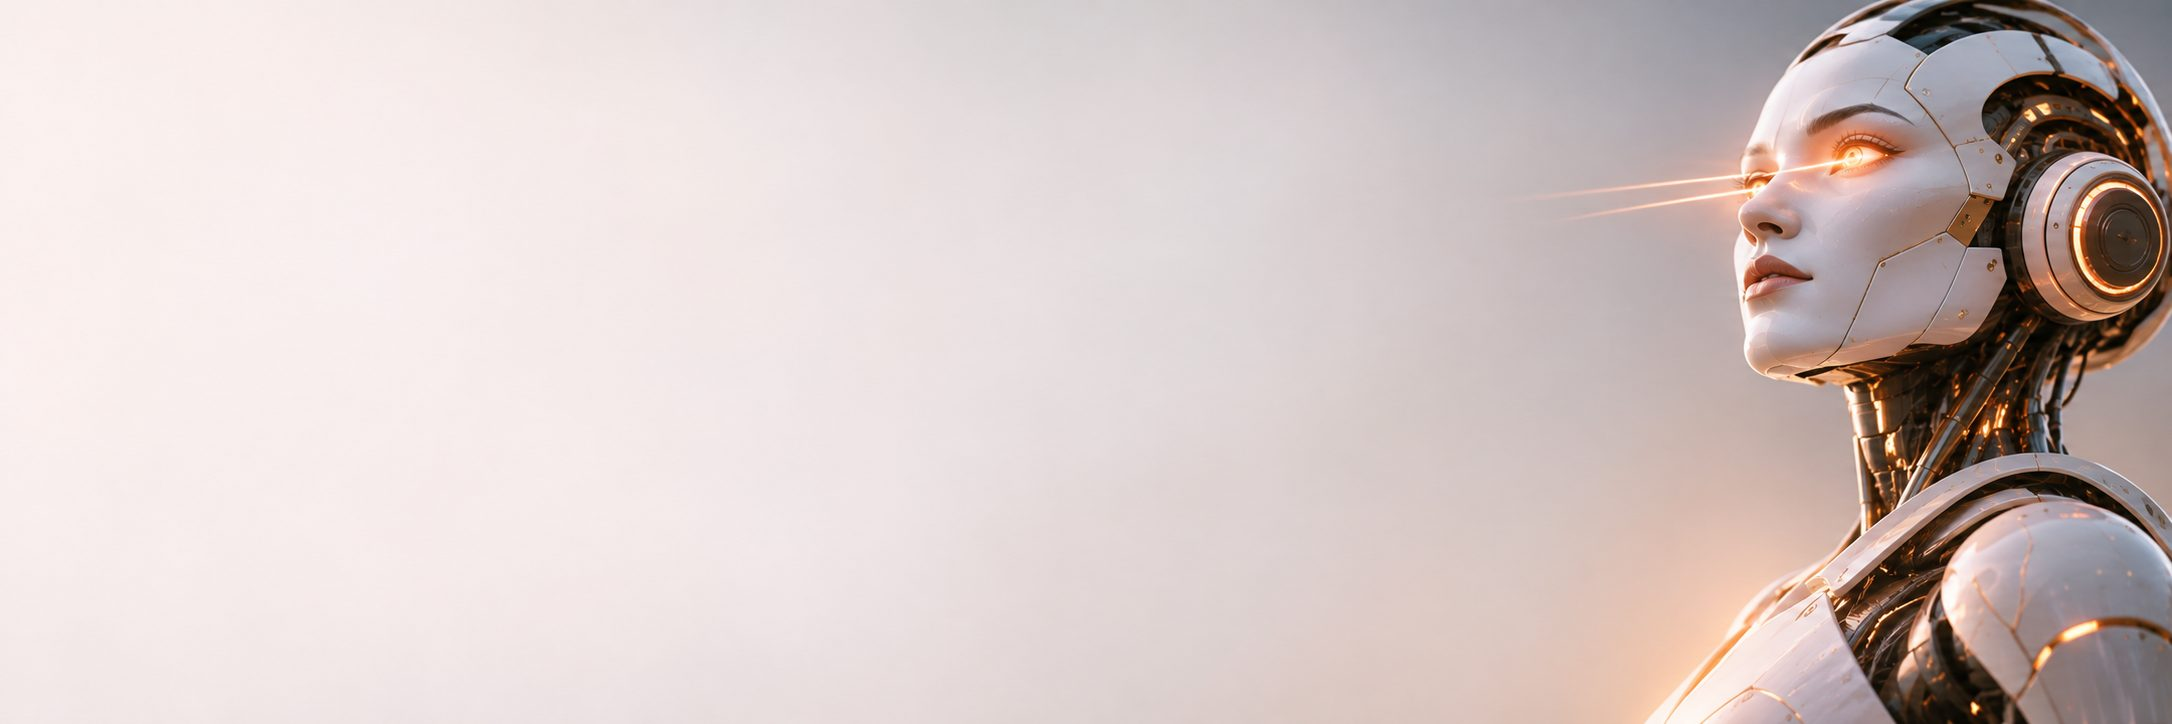
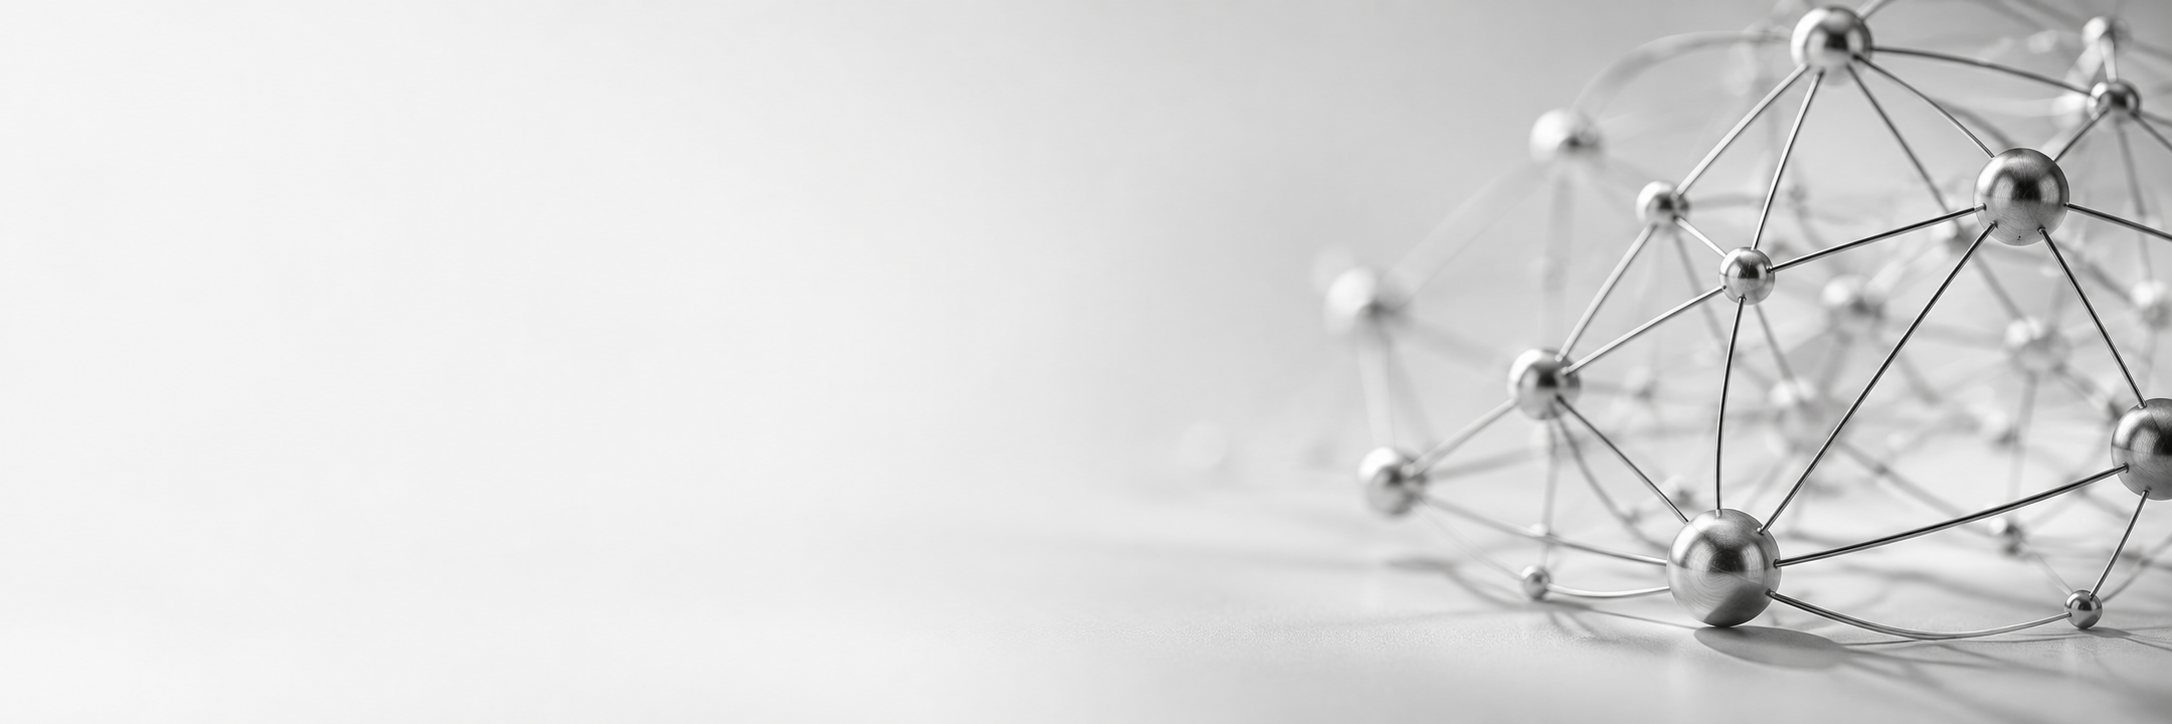
Seire sait: uued päise taustapildid (heledas H1, tumedas T2)
Kadri 9.11 16:41 valik: heledas teemas metallkuulide võrk, tumedas
kihilised lained. Seaded samad: mustvalge, nähtavus 55%.

Claude-Session: https://claude.ai/code/session_019y96C7jSnRUVMso94MMyi9

Changed region(s): [[0.6169, 0.0, 1.0, 1.0], [0.5861, 0.3646, 0.6478, 0.4862]]

diff --git a/tehisaru-seire/sait/stiil.css b/tehisaru-seire/sait/stiil.css
@@ -1334,7 +1334,7 @@ html[data-t] .pea-rahu.pilt::before {
 html[data-t] .pea-rahu.pilt h1 { max-width: 22ch; }
 html[data-t] .pea-rahu.pilt .alla { max-width: 56ch; }
 html[data-t] .pea-rahu.pilt + nav .sellel { margin-top: 24px; }
-/* Tume teema: oma pilt A (Kadri 9.11.2026 07:18 „tumedas A ja heledas B“), sama üleminek, mustvalge, nähtavus 55% */
+/* Tume teema: oma pilt (Kadri 9.11.2026 16:41: tumedas T2 lained, heledas H1 võrk), sama üleminek, mustvalge, nähtavus 55% */
 html[data-t][data-seire-teema="dark"] .pea-rahu.pilt::before { filter: grayscale(1); opacity: .55;
   background: linear-gradient(90deg, var(--page) 0%, color-mix(in srgb, var(--page) 70%, transparent) 38%, transparent 70%),
               linear-gradient(0deg, var(--page) 0%, transparent 30%),

diff --git a/turvakontroll/kontrolli.py b/turvakontroll/kontrolli.py
@@ -32,7 +32,7 @@ KEELATUD_TUUBID = {".xlsx", ".xls", ".xlsm", ".csv.gz", ".pkl", ".pickle", ".zip
                    ".db", ".sqlite", ".env", ".pem", ".key"}
 # Pildid on lubatud ainult testide sünteetilise sisendina; muud pildid võivad olla isiklikud fotod.
 PILDID = {".jpg", ".jpeg", ".png", ".gif", ".webp", ".heic", ".cr3", ".tif", ".tiff"}
-# Erandid (Kadri luba 8.11 ja 9.11.2026): seire saidi avalehe päise pildid, Kadri antud pildid (heledas B, tumedas A), mitte isiklikud fotod.
+# Erandid (Kadri luba 8.11 ja 9.11.2026): seire saidi avalehe päise pildid, Kadri antud pildid (9.11 16:41: heledas H1 võrk, tumedas T2 lained), mitte isiklikud fotod.
 PILDID_LUBATUD = ["*/tests/*", "tehisaru-seire/sait/pilt/avaleht.jpg", "tehisaru-seire/sait/pilt/avaleht-tume.jpg"]
 TEKST = {".py", ".md", ".csv", ".json", ".txt", ".html", ".css", ".js", ".ini", ".toml", ".yml", ".yaml", ".svg", ""}
 SUUR = 1_000_000

diff --git a/UUENDUSED.md b/UUENDUSED.md
@@ -4,6 +4,7 @@ Uuemad üleval. Varasem ajalugu (26.–30.10.2026) on algses projekti kaustas.
 
 | Aeg | Mis muutus |
 |---|---|
+| 9.11.2026 | Seire sait, avaleht: päise taustapildid vahetatud (Kadri 16:41 „kasuta heledast H1 ja tumedast T2“). Heledas teemas H1 (metallkuulide võrk, `sait/pilt/avaleht.jpg`), tumedas T2 (kihilised lained, `sait/pilt/avaleht-tume.jpg`). Seaded samad: mustvalge, nähtavus 55%, sulandub vasakult ja alt. |
 | 9.11.2026 | Seire sait, Ettevõtted › #ligipaas: lisatud Eesti avaliku sektori number otse algallikast (TOOELU ligipääsu lõime ettepanek): Riigikontrolli küsitluses (30.05.2025, p 58) kasutas 41 vastanud asutust 48-st välismaiseid tehisaru valmislahendusi, 33-l puudus asutusesisene kord. Märgitud, et see on avalik sektor ja ainult vastanud asutused. Andmed `sisu/leiud.csv` ja `leiud-arvud.csv` (rk-ai-kord); allikas ka lehe allikate tabelis. |
 | 9.11.2026 | Seire sait, Ettevõtted › Kasutus: uus jaotis „Kes tohib tehisaru tööriistu kasutada“ (#ligipaas), märkega „Töös: kogumine käib“ (Kadri 12:32: saidile kohe, mitte alles 10 sündmuse järel). Ettevõtete otsused rühmades avab kõigile / lubab ehitada, piirab avaldamist / piirab rolliga / keelab; aastad ridadena, avamised ja piiramised kahes veerus; tabelis põhjus ettevõtte sõnul ja allikas. Hoiatus: valim on uudistepõhine, näidatakse arve, mitte osakaale. Andmed `sait/vota_kaasa.py` → `sisu/ligipaas.json` (uudiste read väljaga `ligipaas` + `tooelu-uudised/ligipaas-tagasivaade.jsonl`, ilma sisemise kontrollimärkme ja nimedeta). Testid lisatud. |
 | 9.11.2026 | Seire sait: sisuloogika läbivaatuse 1. ring (Kadri „jah“ 08:20, dokument SEIRE · Saidi sisuloogika läbivaatus 9.11). Ettevõtete numbriplaadil ei arvutata enam 2025→2026 muutust (uus klassifikaator EMTAK 2025); Ettevõtete h1 ütleb „vähemalt 10 hõivatuga“; avalehe teematabelis „tõstab tootlikkust“ → „on seotud suurema tootlikkusega“ (registriandmete seos); Inimeste h1 ütleb „16–74-aastastest“ ja „tööl kasutab seda 36,9% neist“; avalehe hangete plaadil pole 2025 kogust (aastaid veel ei võrrelda); Töö › Uuringud nimetab USA ja Taani; Kuidas lugeda: „Ametlik statistika tuleb 21 allikast“. Uus test `test_sait_ei_tee_ise_vigu_mille_eest_hoiatab`. |
